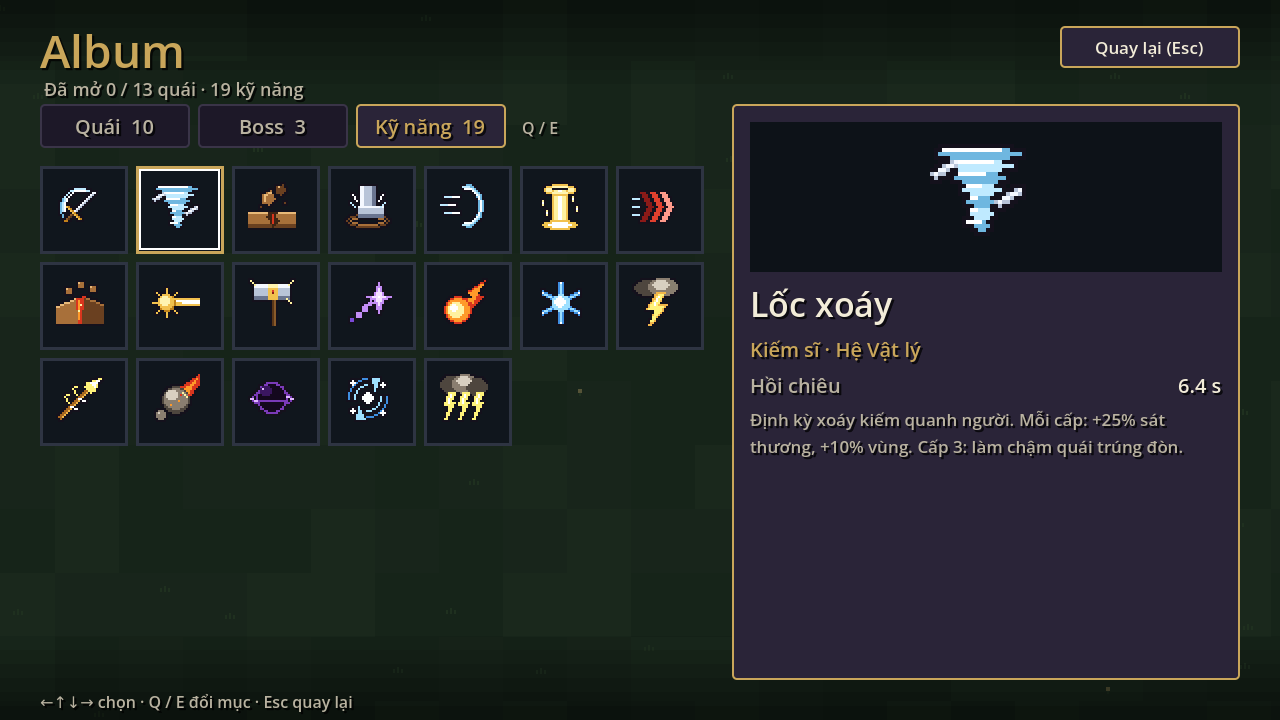
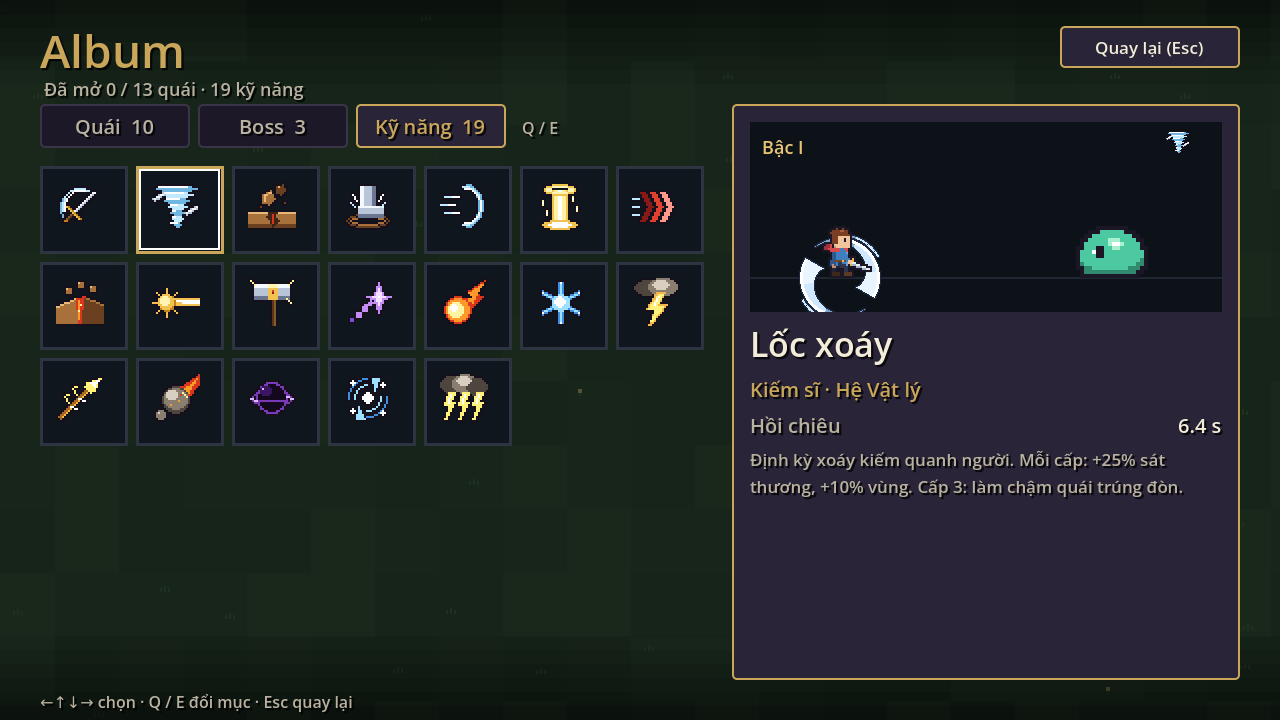
feat(ui): Album skill preview casts the skill on a slime dummy
The Kỹ năng tab's detail now plays the skill with the game's own sprites:
projectiles fly to the dummy and burst, cast skills land on it, melee swings
in front of the hero, self skills play on the hero. Each loop moves to the
next tier look (Bac I..V); the dummy uses the run's red hit tint. View is x2,
dropping to x1 for effects taller than the box.

Verified: gamekit test: 458 passed, 0 failed (skill_sim_test: every Album skill has tier sprites and an animation); shots: evidence/album-skill-sim/01-fireball-impact.png, production/ui/01n2-album-skills.png
Design: design/ux/album.md

diff --git a/design/ux/album.md b/design/ux/album.md
@@ -13,8 +13,9 @@ khi hạ lần đầu** (lưu trong slot), chưa mở thì hiện bóng đen "?"
 | Brotato, Encyclopedia ([Switch 2 Edition](https://www.wikiwand.com/en/articles/Brotato_%E2%80%93_Nintendo_Switch_2_Edition)) | Bách khoa tách theo mục (vũ khí, vật phẩm, quái) | — |
 
 **Quyết định:** 3 mục dạng thẻ (Quái, Boss, Kỹ năng; người dùng bỏ mục Vật phẩm 2026-11-23: trong trận không còn vật phẩm) đổi bằng Q/E (LB/RB); lưới 7 cột bên trái, khung chi
-tiết bên phải; quái ghi loài, hệ yếu (đỏ), hệ kháng (xám), chỉ số ở ải 1, số lần hạ; kỹ năng có ô **mô phỏng** (làm
-sau, dùng sân demo của dashboard).
+tiết bên phải; quái ghi loài, hệ yếu (đỏ), hệ kháng (xám), chỉ số ở ải 1, số lần hạ; kỹ năng có ô **mô phỏng** (`src/front/skill_sim.gd`, 2026-11-23): anh hùng tung chiêu vào slime hình nhân bằng
+sprite thật của game, lặp lại, mỗi vòng sang bậc hình kế (Bậc I→V); slime chớp đỏ khi trúng như trong trận. Góc nhìn ×2,
+hiệu ứng cao hơn khung (Cột thánh quang) thì cả cảnh thu về ×1 (giống rule `fitView` của sân demo Sprite Lab).
 
 ## Bố cục 1280×720
 
